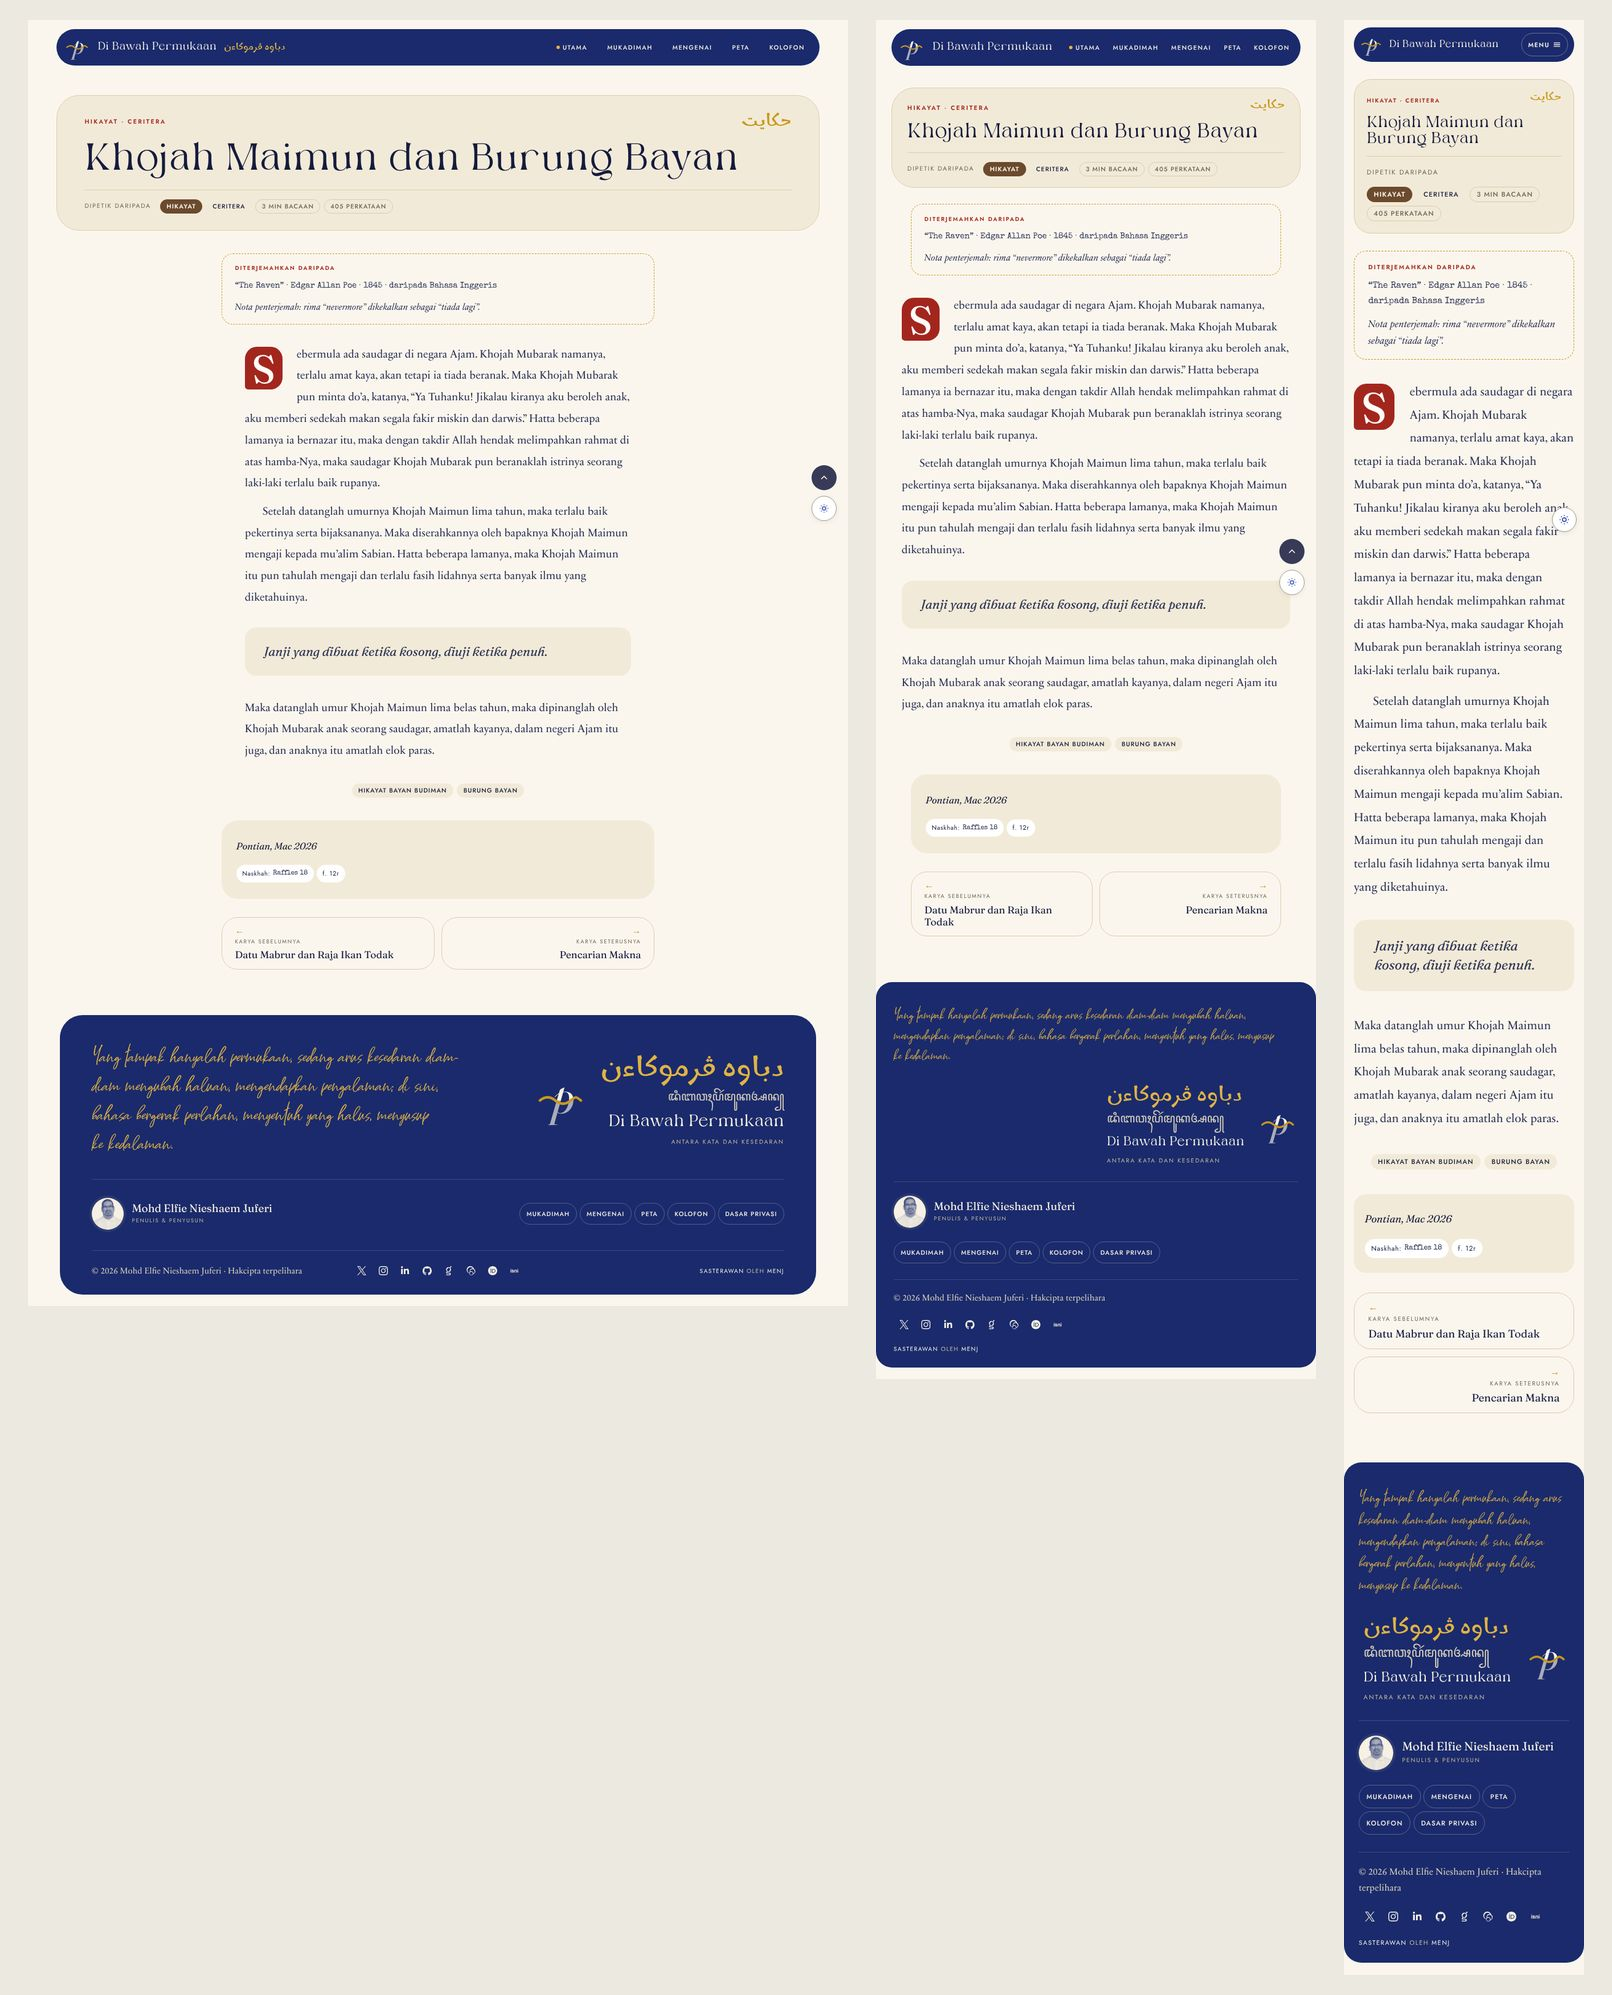
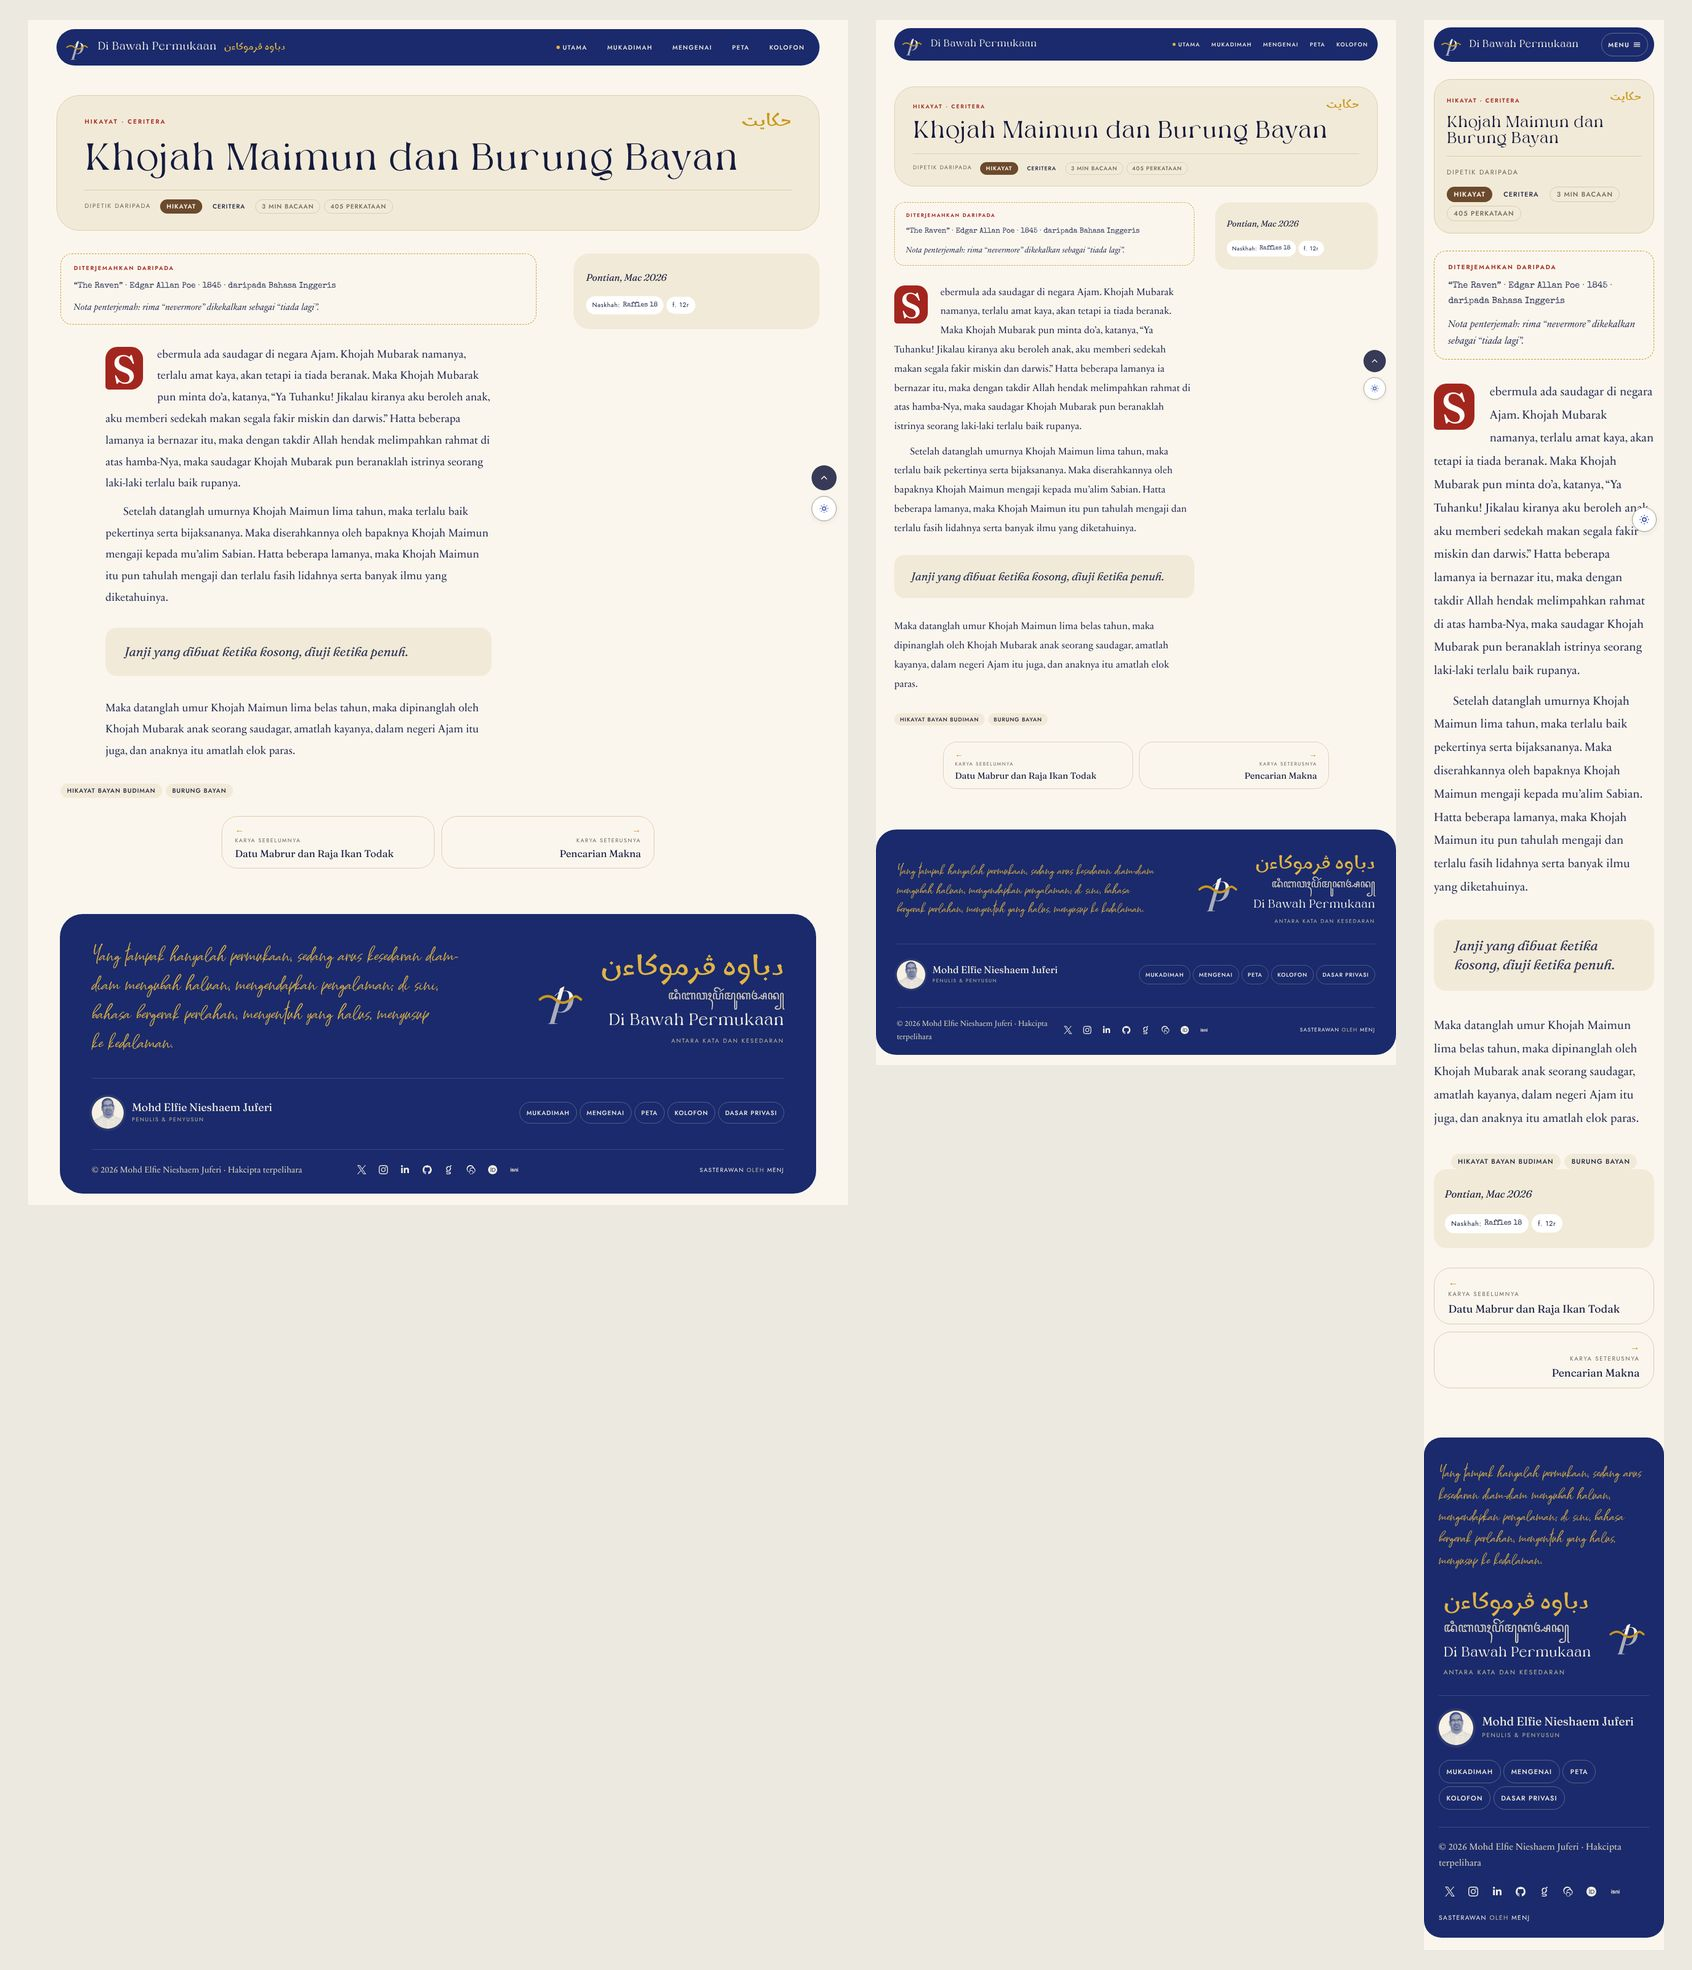
Works: text column with the apparatus beside it; tighter rhythm
- On screens from 64em the colophon and related works sit in a sticky side column next to the text instead of stacking below it
- Text blocks, including verse, start at the column's left edge; pages take a 46em measure from the left
- Colophon drops its ornament and extra padding; tags and featured block margins tightened

Claude-Session: https://claude.ai/code/session_01Er8Hpy67qX5wHknT6MnoT1

Changed region(s): [[0.031, 0.0, 0.9926, 0.9909], [0.031, 0.0619, 0.4653, 0.1239], [0.031, 0.0, 0.1551, 0.031]]

diff --git a/assets/css/frontend.css b/assets/css/frontend.css
@@ -697,6 +697,36 @@ body.bwp-toc-masonry .bwp-toc__item { width: 49%; margin-bottom: .75rem; }
     .bwp-opening__seal { font-size: 1.1rem; }
 }
 
+/* ── Work layout: text column with the apparatus beside it on wide screens ──
+   Fills the full-width page instead of leaving paper either side of a centred column. */
+.bwp-work__layout { display: block; }
+.bwp-work__aside > :first-child { margin-top: 0; }
+@media screen and (min-width: 64em) {
+    .bwp-work__layout {
+        display: grid;
+        grid-template-columns: minmax(0, 1fr) clamp(20rem, 30vw, 28rem);
+        gap: 0 clamp(2rem, 4vw, 4rem);
+        align-items: start;
+    }
+    .bwp-work__main { --bwp-measure: 44em; min-width: 0; }
+    .bwp-work__main > * { margin-left: 0; }
+    body.bwp-form-puisi .bwp-work__main .bwp-work__content,
+    body.bwp-form-syair .bwp-work__main .bwp-work__content,
+    body.bwp-form-karmina .bwp-work__main .bwp-work__content { margin-left: 0; }
+    .bwp-work__aside { position: sticky; top: 1.25rem; }
+    .bwp-work__aside .bwp-colophon,
+    .bwp-work__aside .bwp-related { max-width: none; margin-left: 0; margin-right: 0; }
+    .bwp-work__aside .bwp-colophon { margin-top: 0; }
+    .bwp-work__aside .bwp-related { margin-top: 1.25rem; }
+    .bwp-work__main .bwp-tags,
+    .bwp-work__main .bwp-share { justify-content: flex-start; }
+    /* pages: no aside, so the text takes a wider measure from the left edge */
+    .bwp-page .bwp-work__content { --bwp-measure: 46em; max-width: var(--bwp-measure); margin-left: 0; }
+}
+/* tighter vertical rhythm throughout */
+.bwp-tags { margin-top: 1.75rem; }
+.bwp-featured { margin-bottom: 2rem; }
+
 /* analytics bar → chips */
 .bwp-analytics { display: flex; flex-wrap: wrap; gap: .4rem; align-items: center; }
 .bwp-analytics__cat { background: var(--bwp-bg-subtle); border-color: transparent; color: var(--bwp-text); }
@@ -827,10 +857,12 @@ body.bwp-toc-masonry .bwp-toc__item { width: 49%; margin-bottom: .75rem; }
 
 /* colophon → card of pills */
 .bwp-colophon {
-    margin-top: 2.5rem; padding: 1.4rem 1.6rem;
+    margin-top: 2rem; padding: 1.25rem 1.4rem;
     background: var(--bwp-bg-subtle); border-radius: var(--bwp-radius-lg);
     text-align: left;
 }
+.bwp-colophon .bwp-ornament { display: none; }
+.bwp-colophon > :first-child { margin-top: 0; }
 .bwp-colophon .bwp-ornament { margin: 0 0 .9rem; justify-content: flex-start; }
 .bwp-colophon .bwp-ornament::before { display: none; }
 .bwp-colophon__line {

diff --git a/single.php b/single.php
@@ -36,9 +36,10 @@
             </div>
         </header>
 
+        <div class="bwp-work__layout">
+        <div class="bwp-work__main">
         <?php
-        // Nota Penulis — shown between analytics bar and body content,
-        // full width across the page wrap. All forms.
+        // Nota Penulis — shown between analytics bar and body content. All forms.
         $bwp_notes = get_post_meta( get_the_ID(), 'book_wp_notes', true );
         if ( $bwp_notes ) :
         ?>
@@ -87,10 +88,19 @@
         <?php endif; endif; endif; ?>
 
         <?php echo book_wp_share_row(); // phpcs:ignore ?>
+        </div><!-- .bwp-work__main -->
 
-        <?php echo book_wp_colophon(); // phpcs:ignore ?>
-
-        <?php echo book_wp_related_works(); // phpcs:ignore ?>
+        <?php
+        // Apparatus — colophon and related works. Beside the text on wide
+        // screens, below it on tablet and phone.
+        $bwp_aside = book_wp_colophon() . book_wp_related_works();
+        if ( trim( $bwp_aside ) ) :
+        ?>
+        <aside class="bwp-work__aside" aria-label="<?php esc_attr_e( 'About this work', 'book-wp' ); ?>">
+            <?php echo $bwp_aside; // phpcs:ignore ?>
+        </aside>
+        <?php endif; ?>
+        </div><!-- .bwp-work__layout -->
 
         <?php
         $bwp_nav_output = '';
